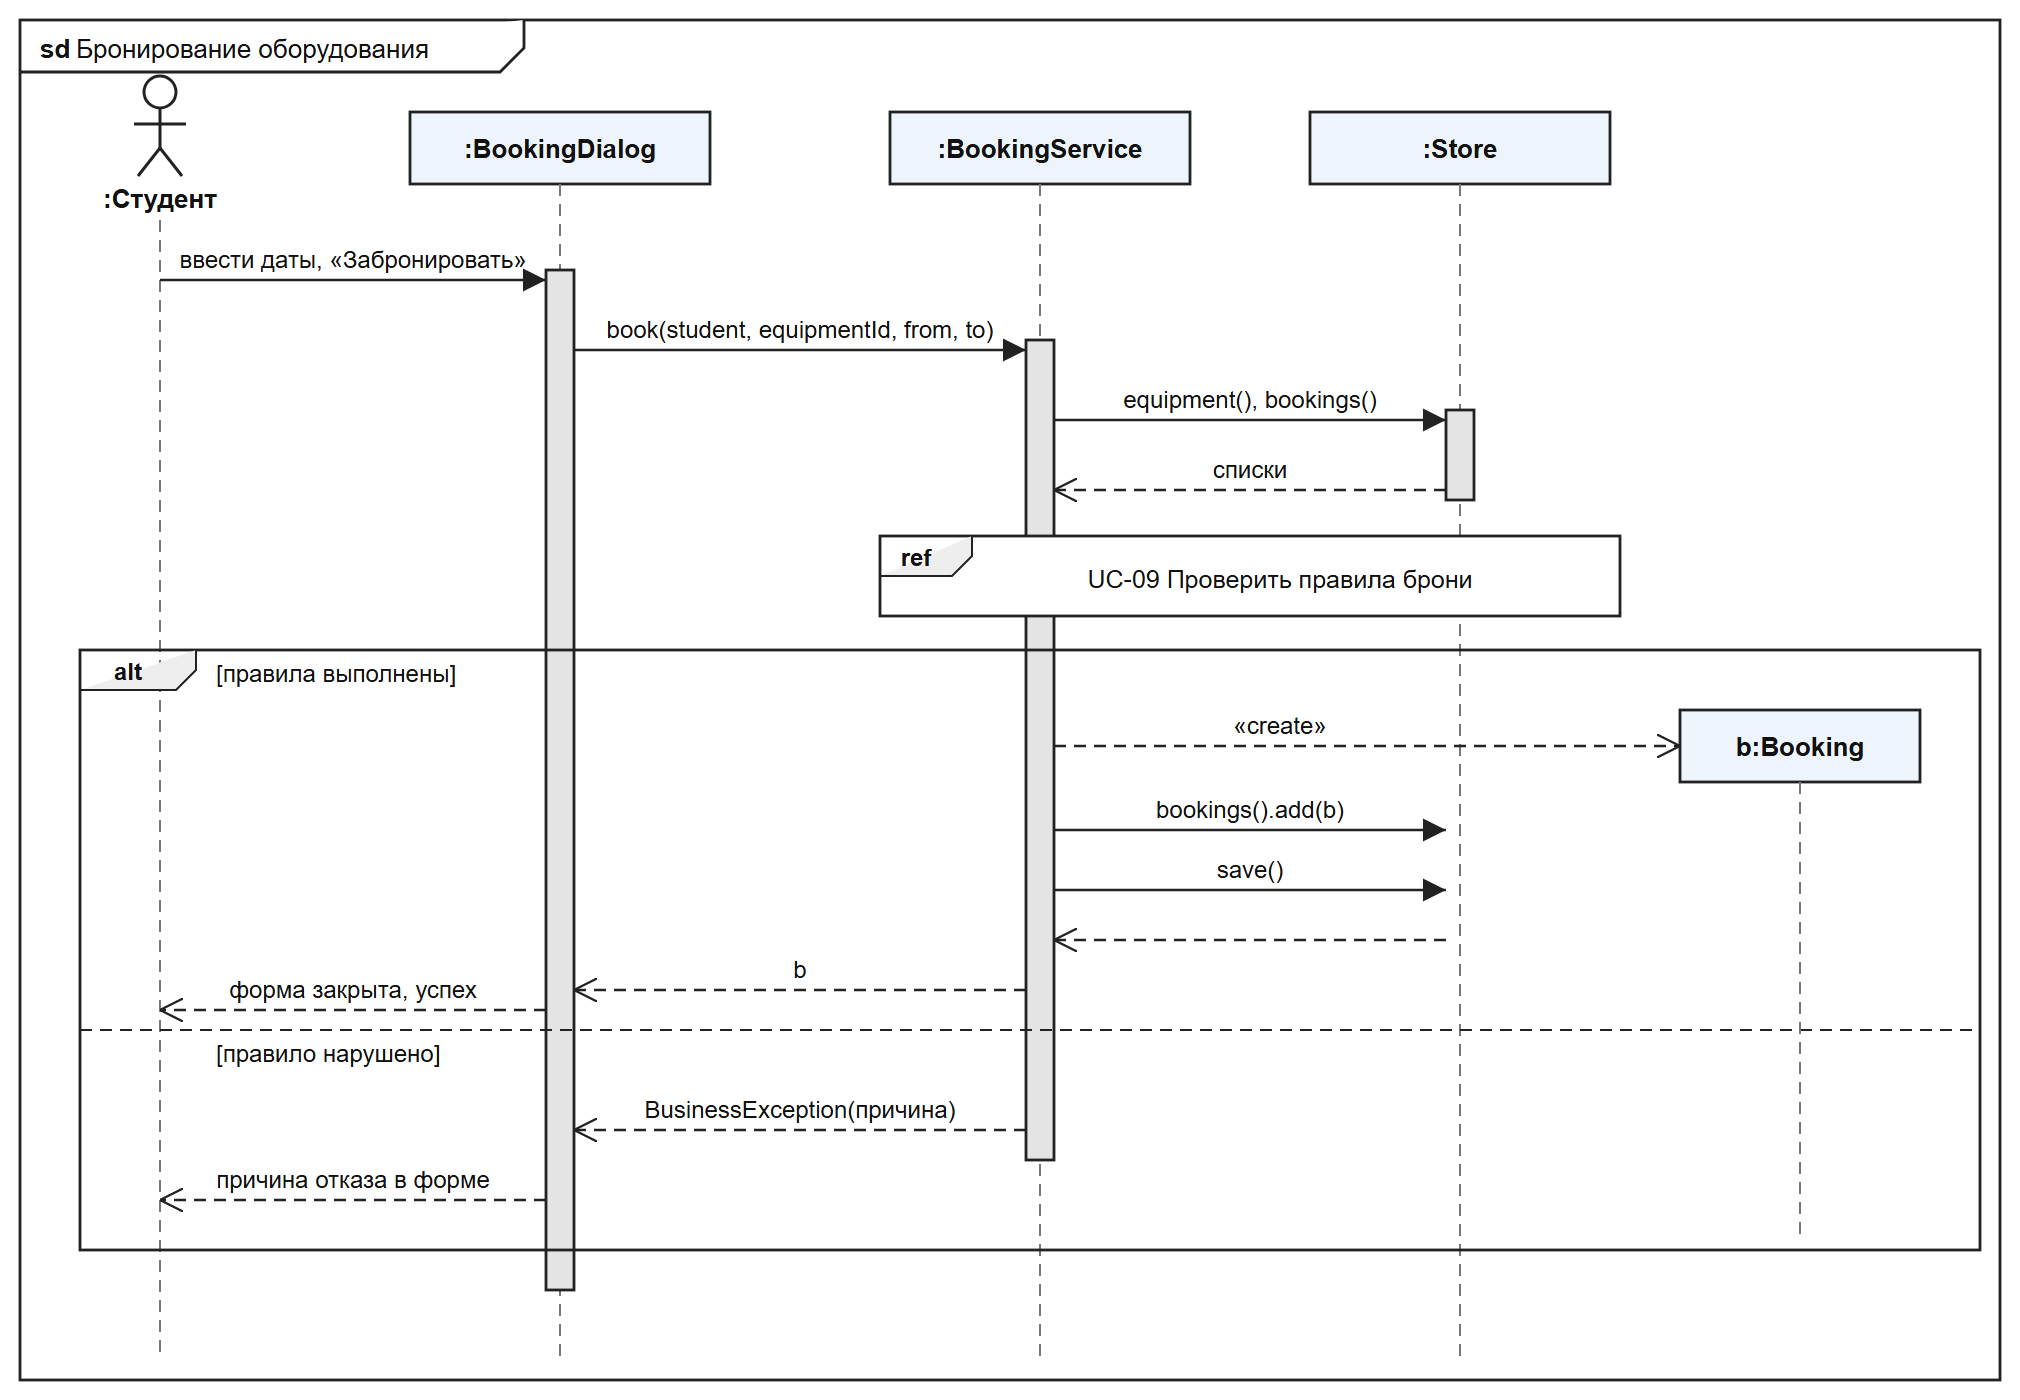
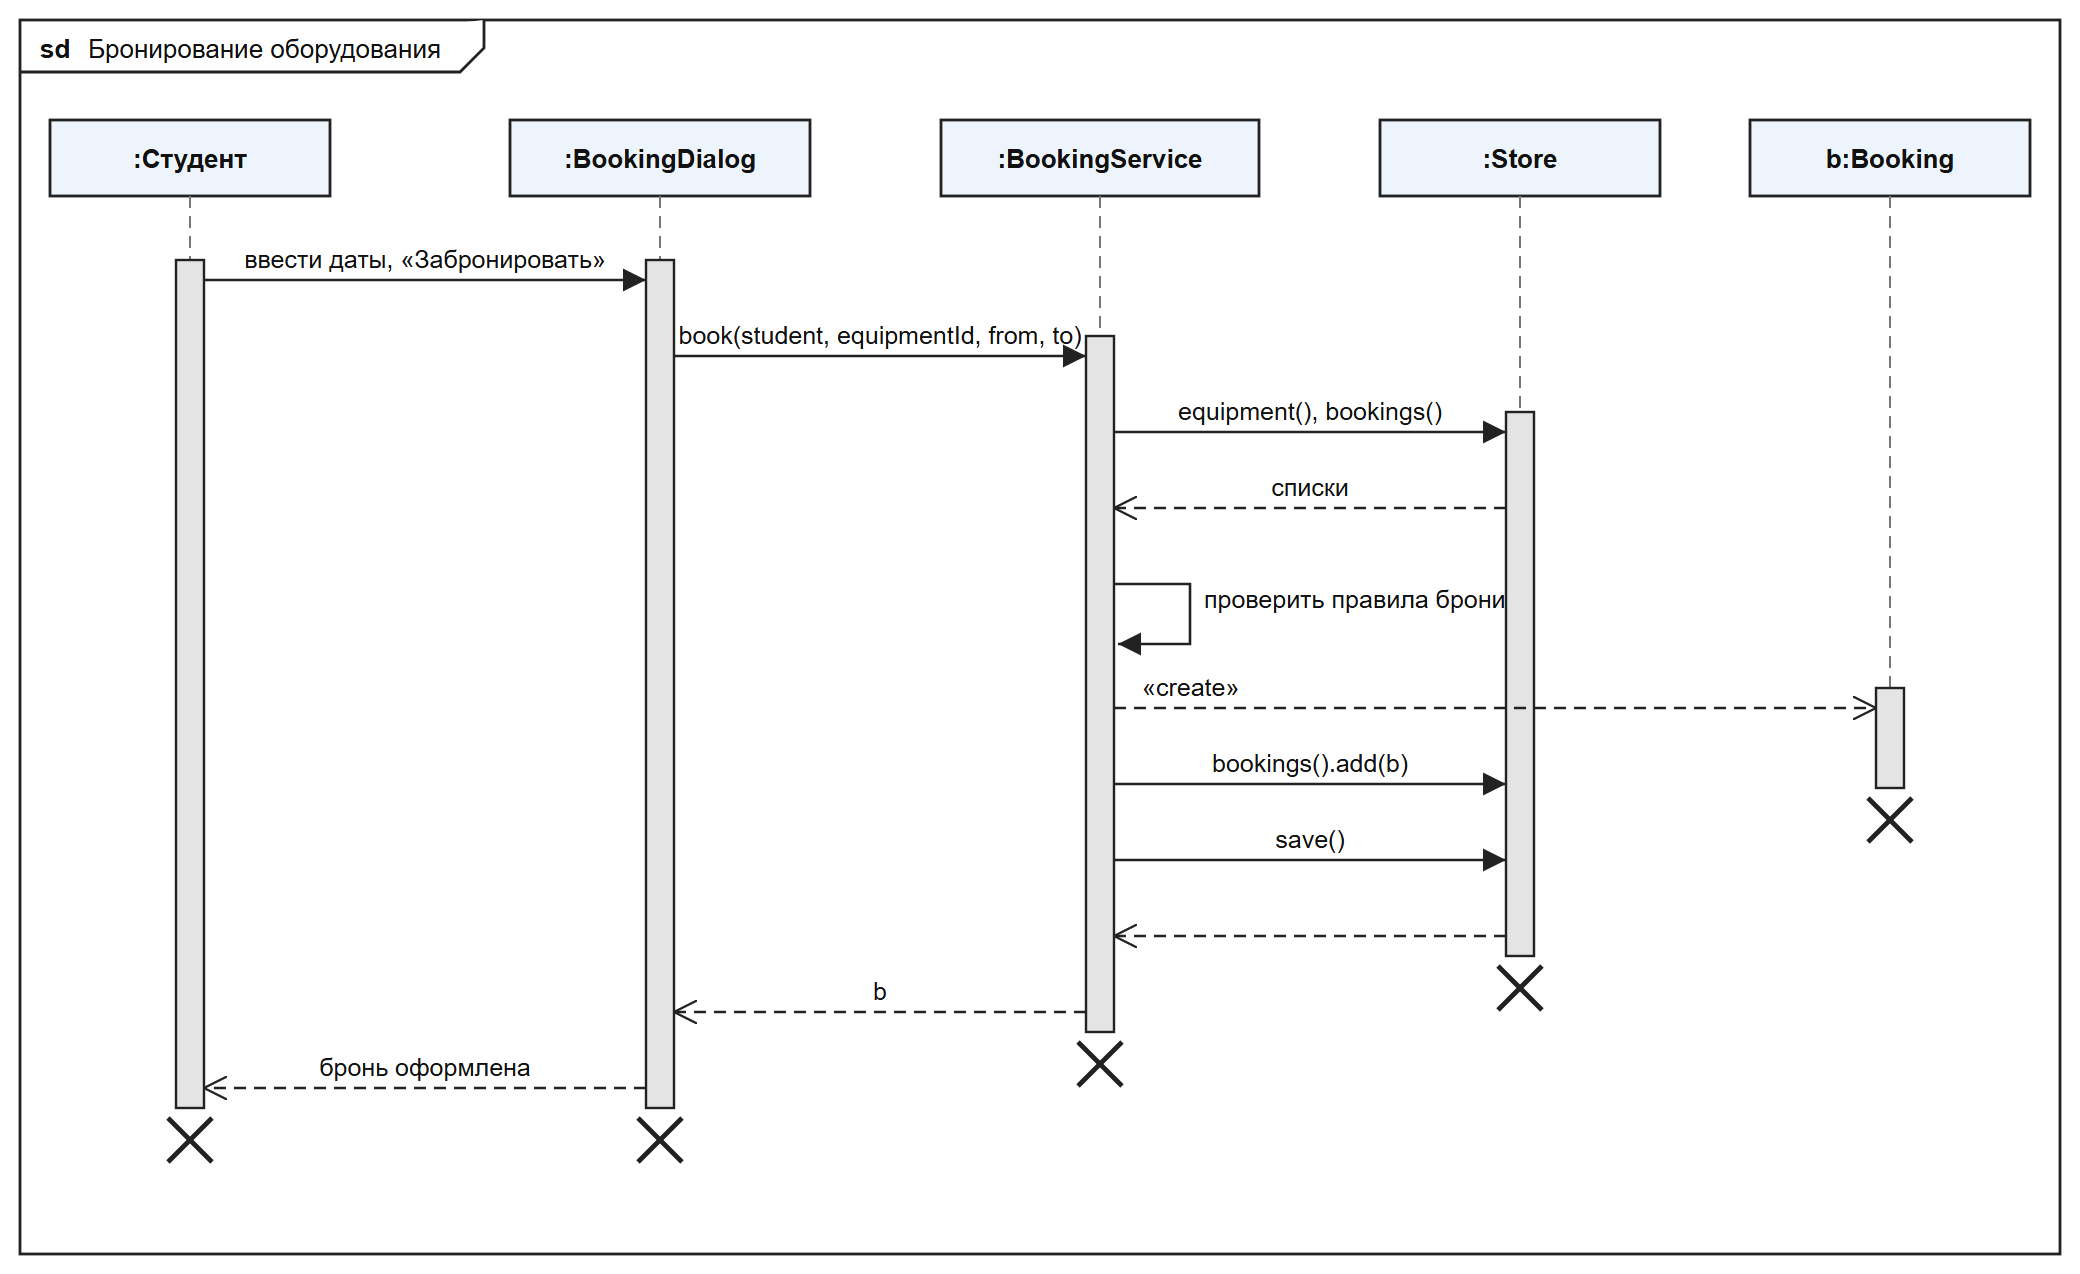
docs: update lab5 documentation and diagrams

diff --git a/docs/sdd/labequip_sdd.md b/docs/sdd/labequip_sdd.md
@@ -310,7 +310,7 @@ book(student, eqId, from, to):
 ### V-018 — Последовательность: бронирование
 
 - **Viewpoint**: Interaction
-- **Representation**: уточняет V-008 в нотации UML (рисунок 3.11). Проверка правил вынесена во фрагмент `ref` на UC-09, успех и отказ показаны фрагментом `alt`.
+- **Representation**: уточняет V-008 в нотации UML (рисунок 3.11). Все участники, включая студента и создаваемую бронь, показаны прямоугольниками; время жизни — прямоугольником активации, конец жизни — крестиком. Проверка правил UC-09 показана сообщением объекта самому себе.
 
 ![Рисунок 3.11 — Диаграмма последовательности бронирования](../uml/06_sequence_booking.png)
 
@@ -319,7 +319,7 @@ book(student, eqId, from, to):
 ### V-019 — Последовательность: выдача и возврат
 
 - **Viewpoint**: Interaction
-- **Representation**: сообщения между `JournalPanel`, `IssueService` и `Store` при выдаче и возврате (рисунок 3.12). Классы запланированы на итерации I3–I4.
+- **Representation**: сообщения между `JournalPanel`, `IssueService` и `Store` при выдаче и возврате (рисунок 3.12). Нотация та же, что в V-018: время жизни каждого участника заканчивается крестиком. Классы запланированы на итерации I3–I4.
 
 ![Рисунок 3.12 — Диаграмма последовательности выдачи и возврата](../uml/07_sequence_issue.png)
 

diff --git a/docs/decisions/0009-describe-uml-models-as-text-and-link-diagrams.md b/docs/decisions/0009-describe-uml-models-as-text-and-link-diagrams.md
@@ -45,7 +45,7 @@ informed: заказчик, junior-разработчик
 | Действие активности | Переход состояния | действие «Отметить выдачу» и переход `issue` |
 | Переход состояния | Сообщение последовательности | переход `issue` и вызов `IssueService.issue()` |
 | Сообщение | Метод класса | контракты V-005 |
-| Связь `include` | Фрагмент `ref` | UC-09 подключается в `sd Бронирование оборудования` |
+| Связь `include` | Сообщение самому себе | проверка правил UC-09 — сообщение «проверить правила брони» в `sd Бронирование оборудования` |
 
 ### Последствия
 

diff --git a/docs/decisions/0005-book-equipment-by-whole-days-inclusive.md b/docs/decisions/0005-book-equipment-by-whole-days-inclusive.md
@@ -56,4 +56,4 @@ informed: —
 
 Связано: REQ-FUNC-006, V-009.
 
-Связь с UML-моделью: правило пересечения проверяется в UC-09 и показано фрагментом `ref` на диаграмме V-018.
+Связь с UML-моделью: правило пересечения проверяется в UC-09 и показано сообщением «проверить правила брони» на диаграмме V-018.
